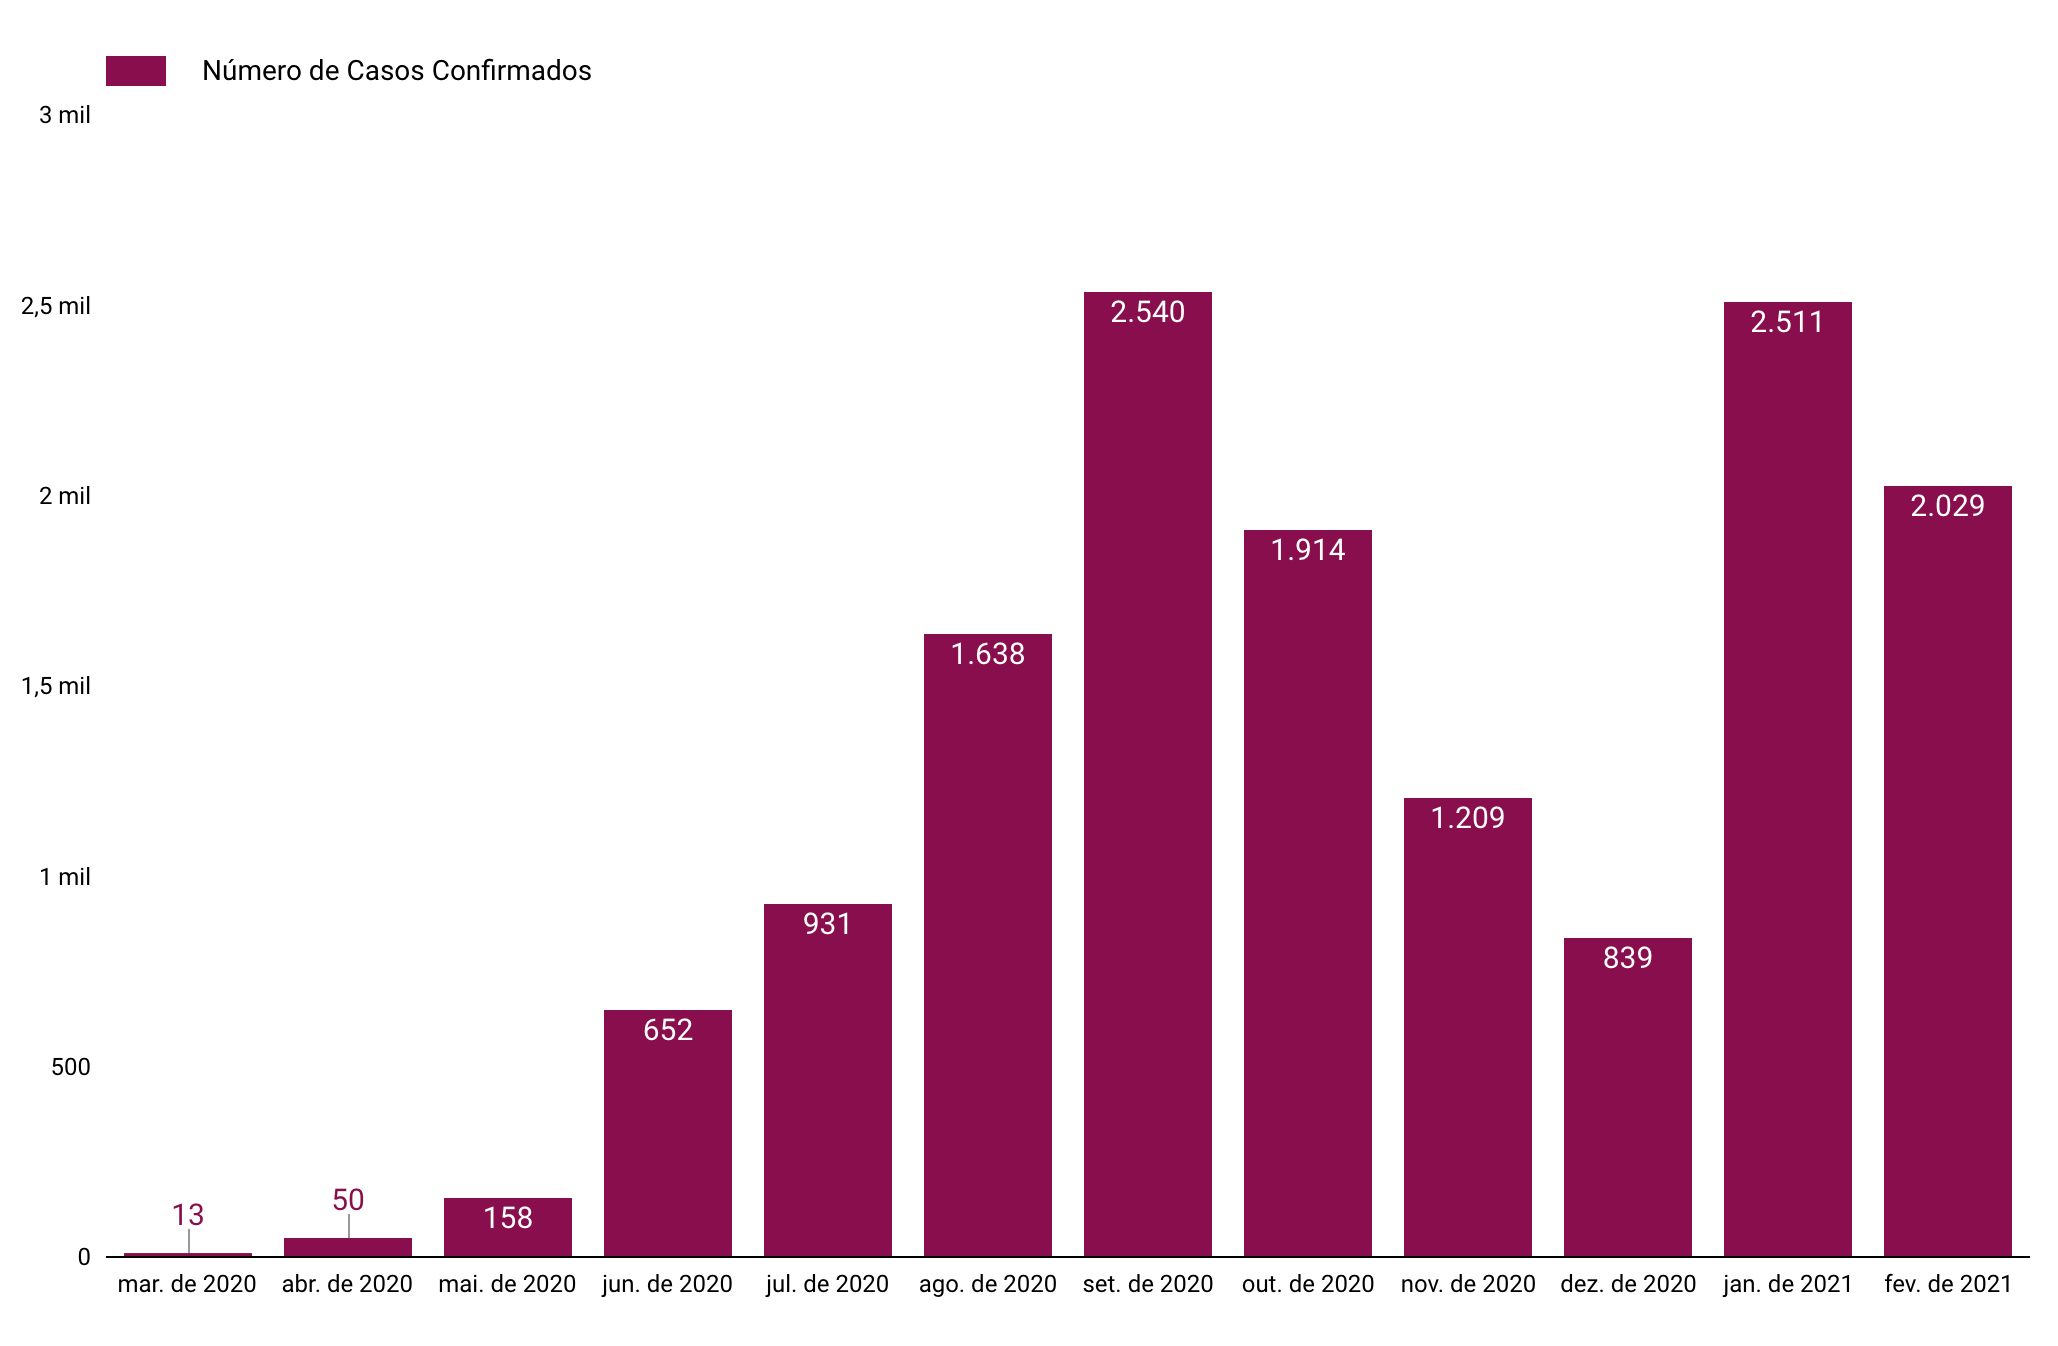
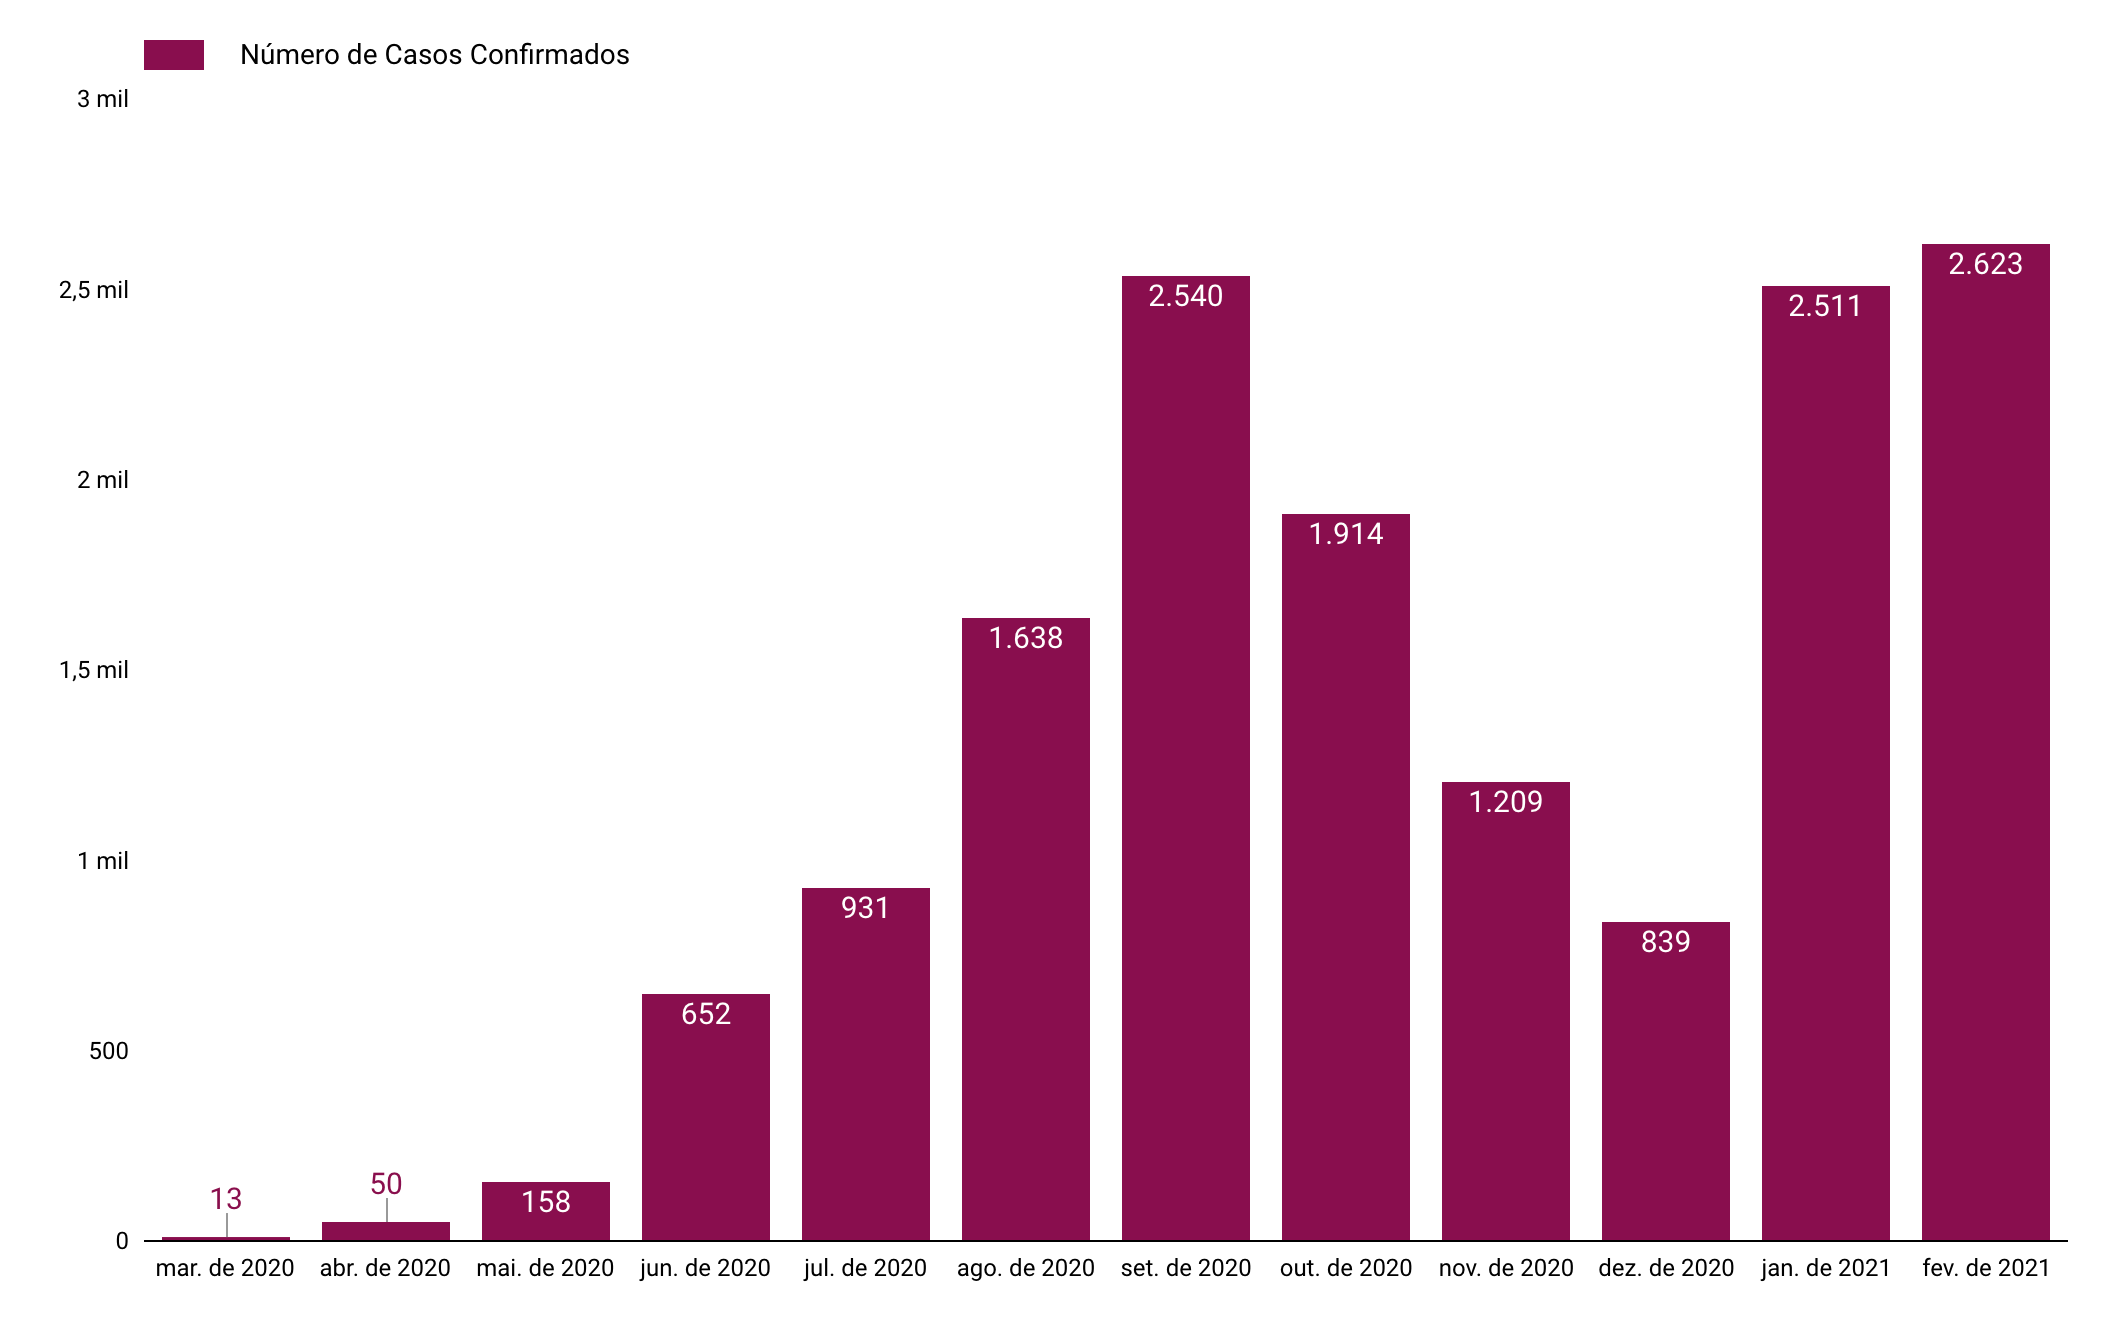
atualizacao

diff --git a/index.html b/index.html
@@ -147,8 +147,8 @@
 
         <p class="text-justify mt-3">
             <ul>
-            <li>No dia de hoje (18/02/2021), acumulamos 14484 casos notificados.</li>
-            <li>Projeção para dia 23 de fevereiro é de 15142 podendo chegar até 15725 casos notificados, como indicado pela faixa cinza.</li>
+            <li>No dia de hoje (24/02/2021), acumulamos 15078 casos notificados.</li>
+            <li>Projeção para dia 01 de março é de 15628 podendo chegar até 16217 casos notificados, como indicado pela faixa cinza.</li>
             <li>Pontos pretos: número de casos confirmados a cada dia.</li>
             <li>Pontos laranjas: a previsão para os próximos 5 dias.</li>
             </ul>
@@ -271,7 +271,7 @@
         </p>
 -->
         <p class="text-justify mt-3">
-        O gráfico da Figura 6 apresenta a evolução do número de óbitos com a média móvel e também a variação dessa média. A variação da média móvel do número de óbitos é de 6%.
+        O gráfico da Figura 6 apresenta a evolução do número de óbitos com a média móvel e também a variação dessa média. A variação da média móvel do número de óbitos é de 11%.
         </p>
 
         <a target="_blank">

diff --git a/sobre.html b/sobre.html
@@ -143,6 +143,7 @@
                 <li>Helamã Oliveira da Silva (Discente do Curso de Licenciatura em Matemática/UFTM)</li>
                 <li>Isabela Cristina Oliveira (Discente do Curso de Licenciatura em Matemática/UFTM)</li>
                 <li>Maria Carolina de Andrade Coltri (Discente do Curso de Licenciatura em Ciências Biológicas/UFTM)</li>
+                <li>Matheus Rodrigues (Discente do Curso de Licenciatura em Matemática/UFTM)</li>
                 <li>Paulo Henrique Borges Ferreira (Mestrando do Curso de Pós-Graduação em Química/UFTM)</li>
                 <li>Tácito de Deus Ferreira Soares (Discente do Curso de Licenciatura em Matemática/UFTM)</li>
                 <li>Tarley Afonso da Silva (Discente do Curso de Licenciatura em Matemática/UFTM)</li>
